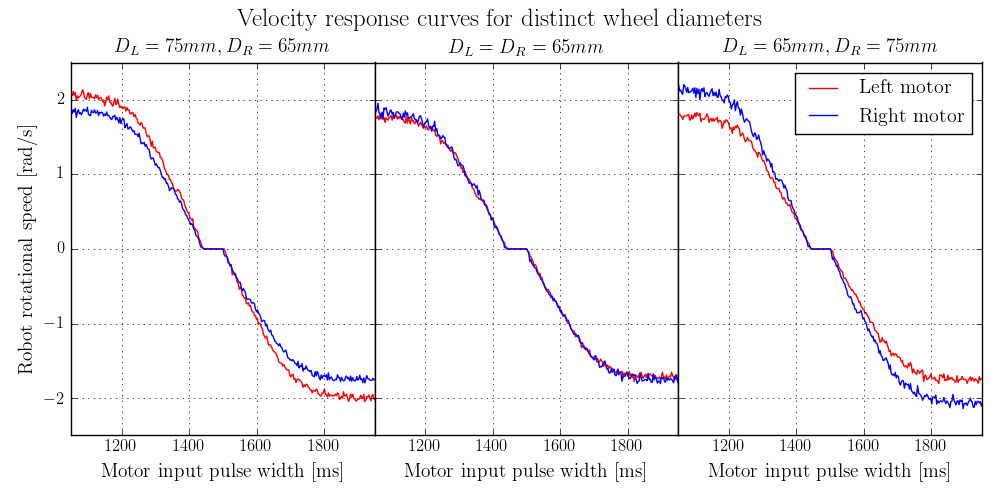
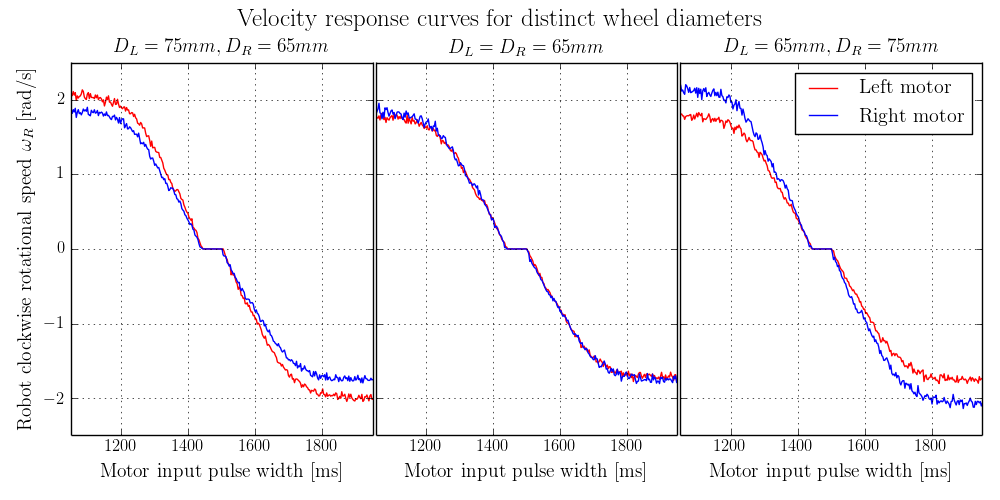
Formatted graph

diff --git a/Software/motor_calib/plot_results.py b/Software/motor_calib/plot_results.py
@@ -29,7 +29,7 @@ R_pulse_ms = data['avgRmotorInput']
 ax[0].plot(L_pulse_ms,L_speed_rads,'-r')
 ax[0].plot(R_pulse_ms,R_speed_rads,'-b')
 ax[0].set_xlabel('Motor input pulse width [ms]', fontsize=14)
-ax[0].set_ylabel('Robot rotational speed [rad/s]', fontsize=14)
+ax[0].set_ylabel('Robot clockwise rotational speed $\omega_R$ [rad/s]', fontsize=14)
 #ax[0].legend(['L','R'])
 ax[0].set_title('$D_L=75mm, D_R=65mm$', fontsize=14)
 ax[0].set_ylim([-2.5,2.5])
@@ -81,7 +81,7 @@ ax[2].grid(True)
 
 tight_layout()
 plt.subplots_adjust(top=0.875)
-plt.subplots_adjust(wspace=0)
+plt.subplots_adjust(wspace=0.01)
 #plt.subplots_adjust(wspace=0.12)
 
 savefig("velocity_response_curve.pdf")
@@ -191,6 +191,6 @@ savefig("linear_trajectory_PWM_mapping.pdf")
 savefig("linear_trajectory_PWM_mapping.png")
 
 
-show()
+#show()
 
 
